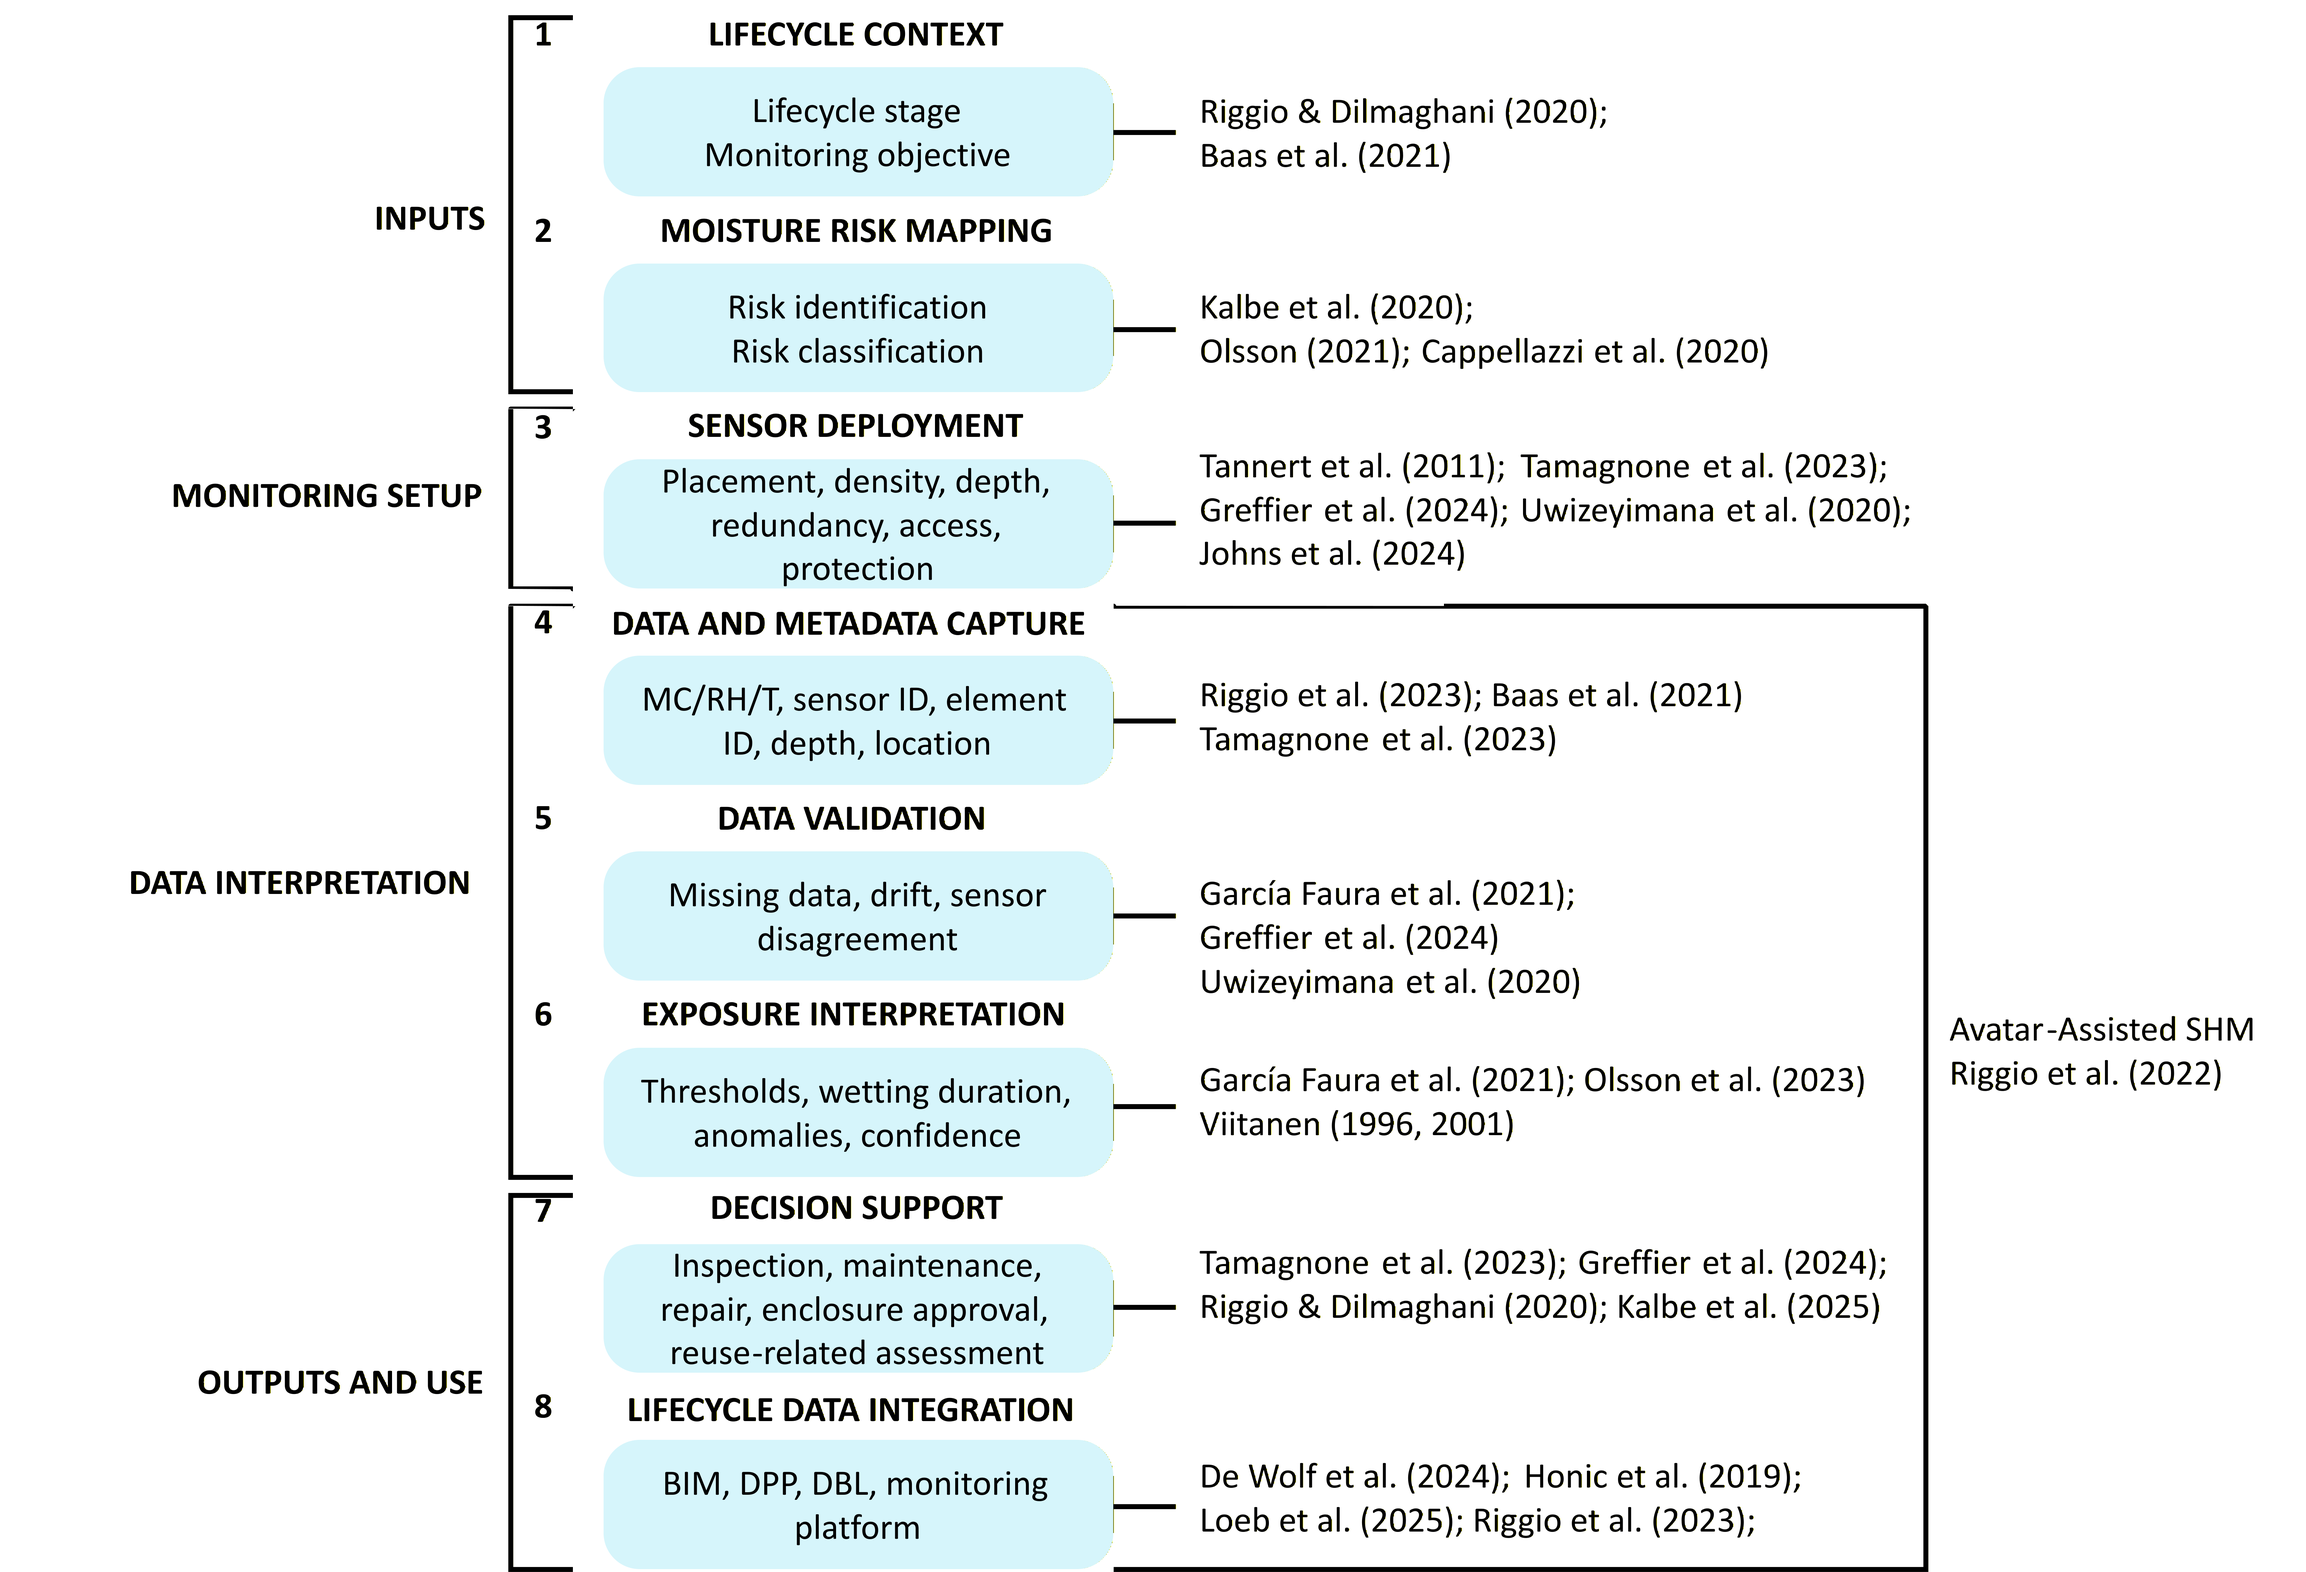
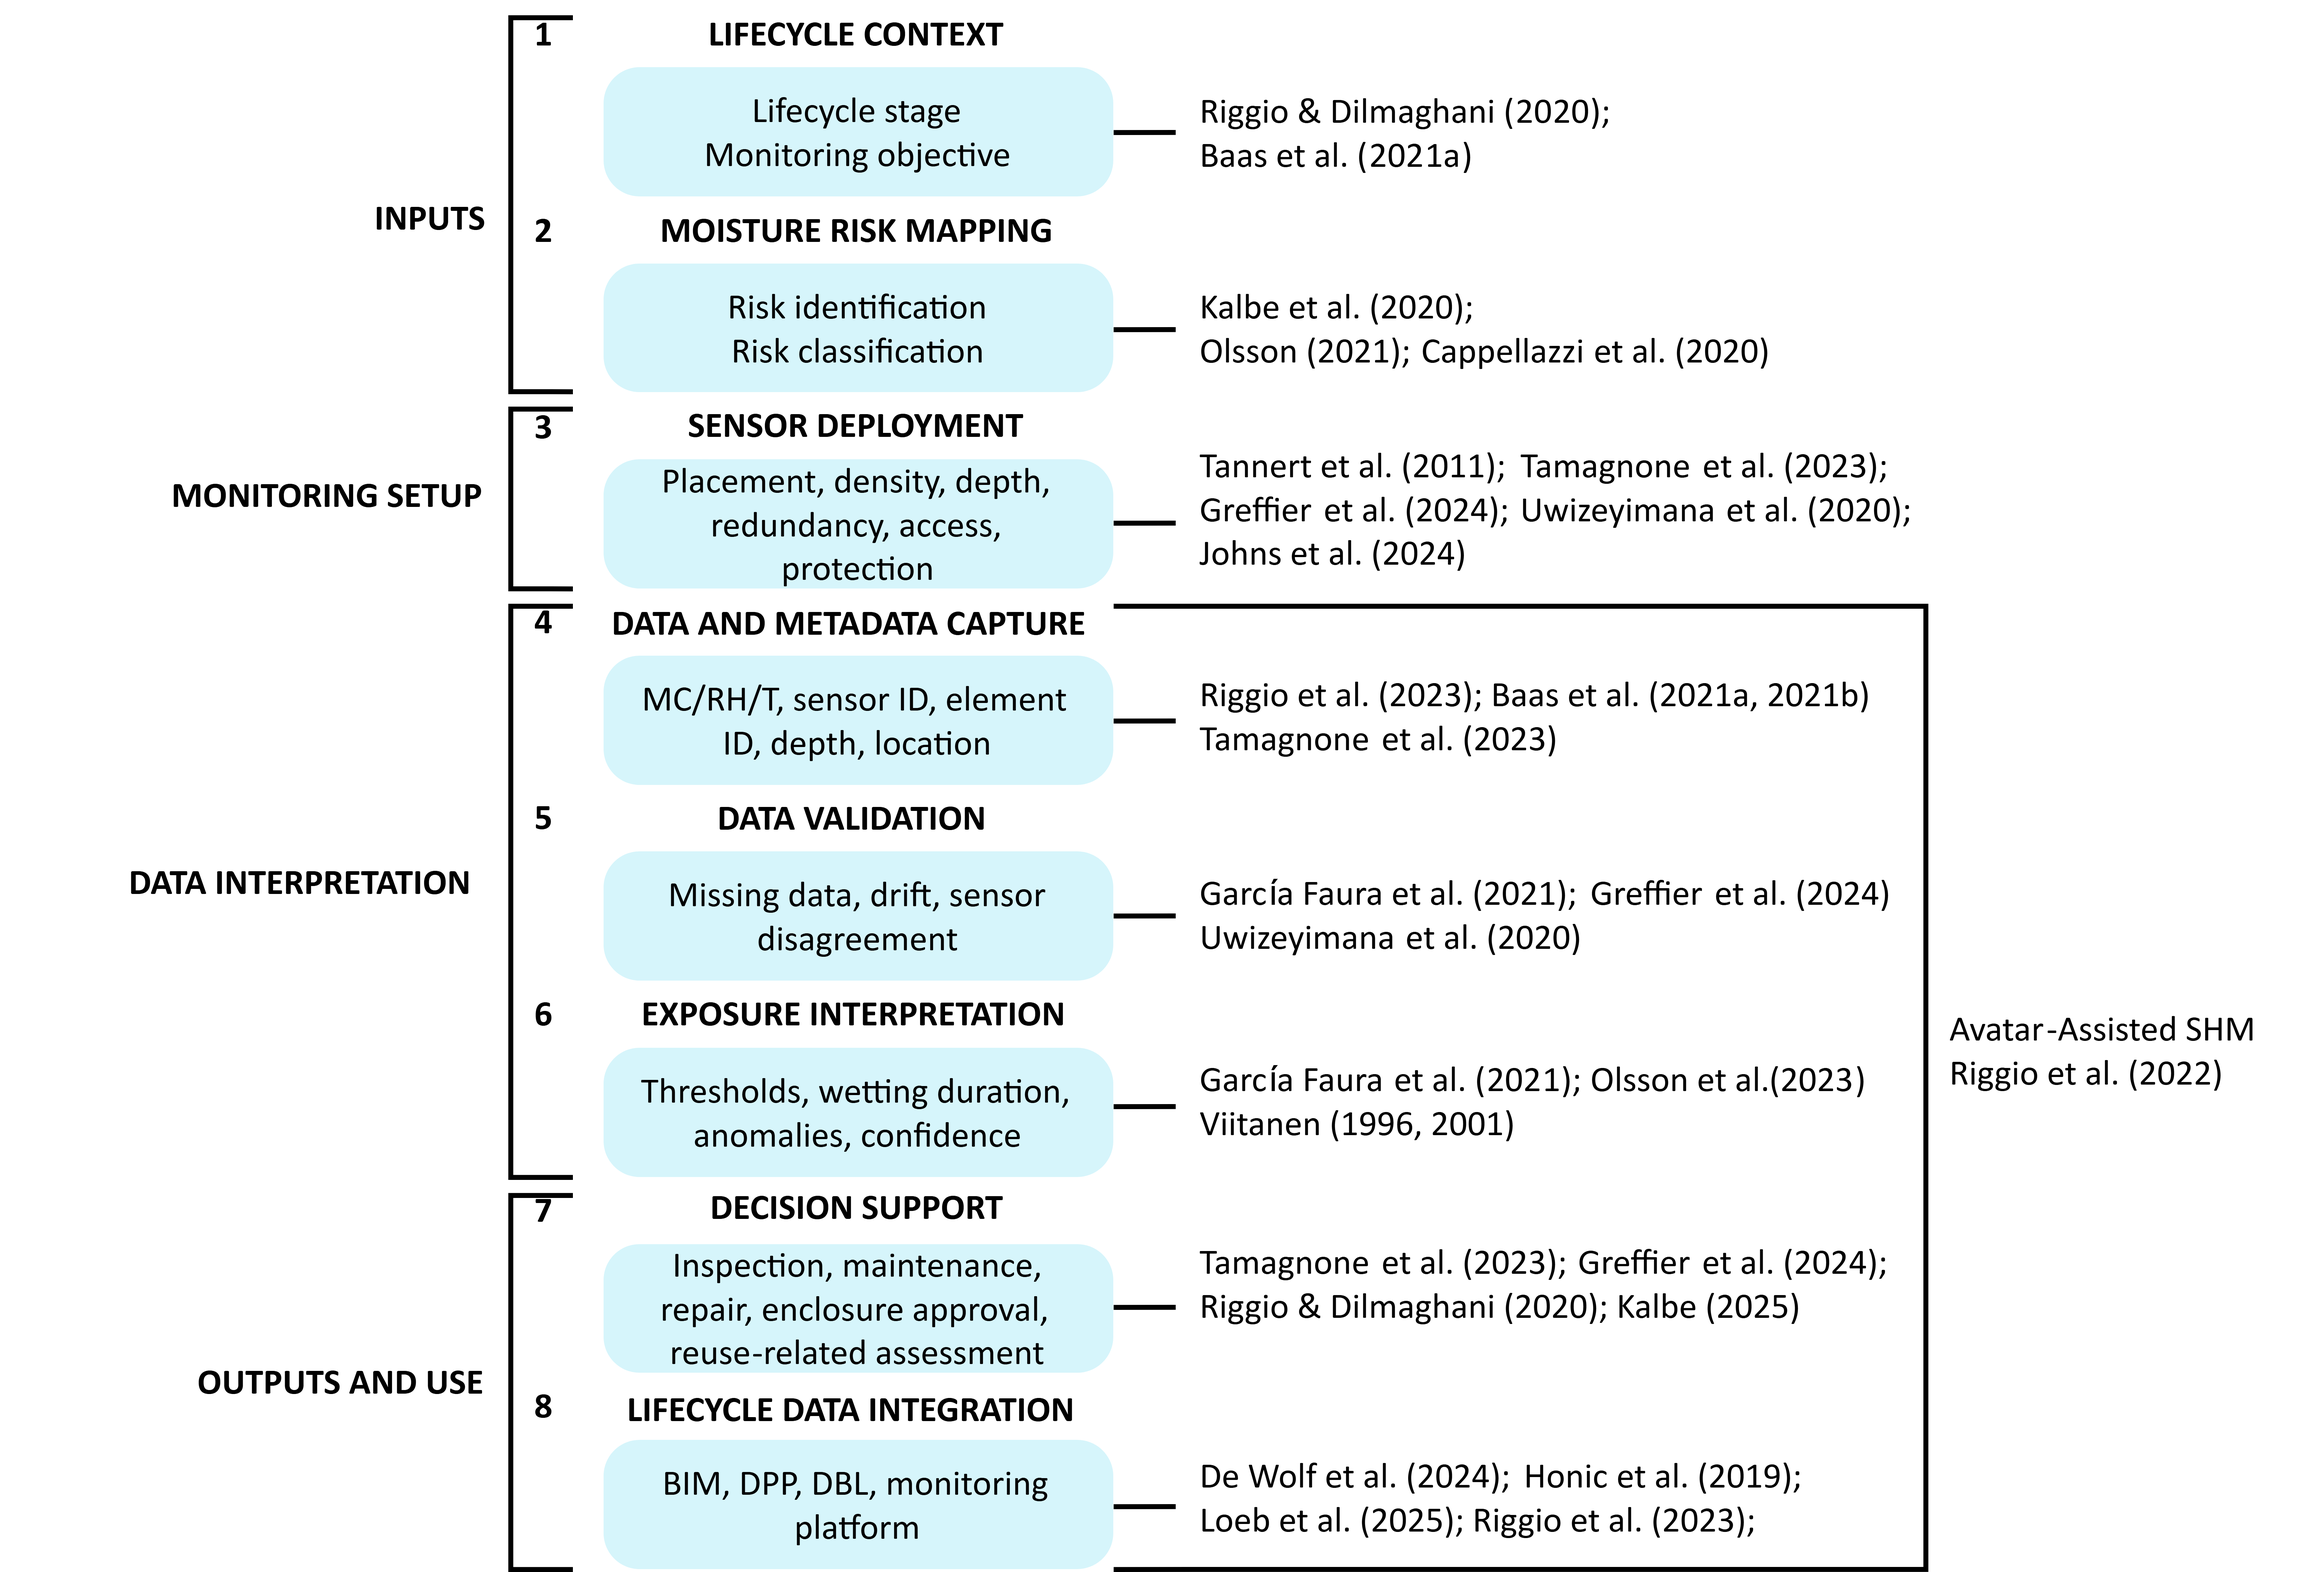
Correct framework evidence citations

diff --git a/05_framework_evidence_base/README.md b/05_framework_evidence_base/README.md
@@ -6,7 +6,7 @@ It preserves traceability between the literature synthesis and the framework lay
 
 ## Framework development
 
-The framework was developed through a targeted literature synthesis combining database searching, snowballing, and review of timber-moisture and monitoring studies. A total of 54 articles were assessed, of which 20 were retained because they provided extractable evidence concerning sensor location, deployment configuration, contextual data requirements, monitoring and data-quality issues, moisture-exposure interpretation, maintenance or reuse-related decision support, or lifecycle use of monitoring records.
+The framework was developed through a targeted literature synthesis combining database searching, snowballing, and review of timber-moisture and monitoring studies. A total of 54 articles were assessed, of which 20 studies were retained because they provided extractable evidence concerning sensor location, deployment configuration, contextual data requirements, monitoring and data-quality issues, moisture-exposure interpretation, maintenance or reuse-related decision support, or lifecycle use of monitoring records. The reference list additionally includes the companion Data in Brief article for the Baas et al. study because it documents the associated monitoring records and data platform; the methodological article and companion data article are distinguished as 2021a and 2021b.
 
 The retained studies were coded in NVivo using inductively developed codes covering lifecycle stage, monitoring purpose, building and member type, sensor location, risk drivers, sensor configuration and density, installation guidance, monitoring issues, risk prediction, contextual information, and recommended monitoring systems.
 
@@ -18,19 +18,21 @@ Framework development then proceeded through iterative synthesis of the coded ma
 
 *Conceptual framework for reuse-informed moisture sensing and data acquisition in mass-timber buildings, showing literature used to support development of the individual layers.*
 
+[Editable SVG source](assets/framework_with_supporting_literature.svg)
+
 The publications associated with each layer are supporting evidence, rather than direct sources of the complete layer. The eight-layer structure and the relationships between layers represent the authors' synthesis of evidence distributed across the reviewed literature.
 
 ## Framework-to-evidence map
 
 | Layer | Framework function | Supporting literature | Contribution to framework development |
 |---|---|---|---|
-| 1. Lifecycle context | Establishes lifecycle stage and monitoring objective before monitoring requirements are defined. | Riggio & Dilmaghani (2020); Baas et al. (2021) | Positions monitoring within lifecycle and structural-health-monitoring contexts and supports defining objectives before deployment. |
+| 1. Lifecycle context | Establishes lifecycle stage and monitoring objective before monitoring requirements are defined. | Riggio & Dilmaghani (2020); Baas et al. (2021a) | Positions monitoring within lifecycle and structural-health-monitoring contexts and supports defining objectives before deployment. |
 | 2. Moisture risk mapping | Identifies moisture-prone locations and classifies their relative monitoring priority. | Kalbe et al. (2020); Olsson (2021); Cappellazzi et al. (2020) | Provides evidence on moisture-sensitive details, construction exposure, water ingress, drying limitations, and deterioration mechanisms. |
 | 3. Sensor deployment | Translates identified risks into placement, density, depth, redundancy, access, and protection decisions. | Tannert et al. (2011); Tamagnone et al. (2023); Greffier et al. (2024); Uwizeyimana et al. (2020); Johns et al. (2024) | Informs sensor location, depth, coverage, redundancy, accessibility, protection, and practical monitoring constraints. |
-| 4. Data and metadata capture | Defines measured values and context needed to preserve the meaning of monitoring records. | Riggio et al. (2023); Baas et al. (2021); Tamagnone et al. (2023) | Links MC, RH, and temperature to sensor and element identities, depth, location, and later interpretation context. |
+| 4. Data and metadata capture | Defines measured values and context needed to preserve the meaning of monitoring records. | Riggio et al. (2023); Baas et al. (2021a, 2021b); Tamagnone et al. (2023) | Links MC, RH, and temperature to sensor and element identities, depth, location, and later interpretation context. |
 | 5. Data validation | Evaluates whether monitoring records are reliable enough for interpretation. | García Faura et al. (2021); Greffier et al. (2024); Uwizeyimana et al. (2020) | Addresses missing data, anomalies, sensor disagreement, installation effects, drift, and other quality issues. |
 | 6. Exposure interpretation | Converts validated observations into indicators of moisture exposure and drying behaviour. | García Faura et al. (2021); Olsson et al. (2023); Viitanen (1996, 2001) | Supports thresholds, exposure duration, wetting and drying behaviour, anomalies, biological risk, and uncertainty. |
-| 7. Decision support | Connects interpreted information to inspection, maintenance, repair, enclosure approval, and reuse assessment. | Tamagnone et al. (2023); Greffier et al. (2024); Riggio & Dilmaghani (2020); Kalbe et al. (2025) | Supports identifying adverse conditions, targeting intervention, and supplying evidence for lifecycle decisions. |
+| 7. Decision support | Connects interpreted information to inspection, maintenance, repair, enclosure approval, and reuse assessment. | Tamagnone et al. (2023); Greffier et al. (2024); Riggio & Dilmaghani (2020); Kalbe (2025) | Supports identifying adverse conditions, targeting intervention, and supplying evidence for lifecycle decisions. |
 | 8. Lifecycle data integration | Preserves monitoring information in digital systems across lifecycle stages. | De Wolf et al. (2024); Honic et al. (2019); Loeb et al. (2025); Riggio et al. (2023) | Supports structured information management through BIM, product passports, building logbooks, and monitoring platforms. |
 
 ## Cross-layer concept: Avatar-Assisted Structural Health Monitoring
@@ -41,7 +43,9 @@ Avatar-Assisted Structural Health Monitoring connects sensor observations with c
 
 ## References
 
-Baas, E. J., Riggio, M., & Barbosa, A. R. (2021). A methodological approach for structural health monitoring of mass-timber buildings under construction. *Construction and Building Materials, 268*, 121153. https://doi.org/10.1016/j.conbuildmat.2020.121153
+Baas, E. J., Riggio, M., & Barbosa, A. R. (2021a). A methodological approach for structural health monitoring of mass-timber buildings under construction. *Construction and Building Materials, 268*, 121153. https://doi.org/10.1016/j.conbuildmat.2020.121153
+
+Baas, E. J., Riggio, M., & Barbosa, A. R. (2021b). Structural health monitoring data collected during construction of a mass-timber building with a data platform for analysis. *Data in Brief, 35*, 106845. https://doi.org/10.1016/j.dib.2021.106845
 
 Cappellazzi, J., Konkler, M. J., Sinha, A., & Morrell, J. J. (2020). Potential for decay in mass timber elements: A review of the risks and identifying possible solutions. *Wood Material Science & Engineering, 15*(1), 1–10. https://doi.org/10.1080/17480272.2020.1720804
 
@@ -67,7 +71,7 @@ Olsson, L., Lång, L., Bok, G., & Mjörnell, K. (2023). Development of laborator
 
 Riggio, M., & Dilmaghani, M. (2020). Structural health monitoring of timber buildings: A literature survey. *Building Research & Information, 48*(8), 817–837. https://doi.org/10.1080/09613218.2019.1681253
 
-Riggio, M., Dilmaghani, M., & Sanchez, C. A. (2023). Understanding structural health monitoring data to support decision-making processes and service life management of mass timber buildings: A preliminary study on use of data scaffolding. *International Wood Products Journal, 14*(1), 22–34. https://doi.org/10.1080/20426445.2023.2177092
+Riggio, M., Dilmaghani, M., & Sanchez, C. A. (2023). Understanding structural health monitoring data to support decision-making processes and service life management of mass timber buildings: A preliminary study on use of data scaffolding. *International Wood Products Journal, 14*(1), 42–59. https://doi.org/10.1080/20426445.2023.2177092
 
 Riggio, M., Mrissa, M., Krész, M., Včelák, J., Sandak, J., & Sandak, A. (2022). Leveraging structural health monitoring data through avatars to extend the service life of mass timber buildings. *Frontiers in Built Environment, 8*, 887593. https://doi.org/10.3389/fbuil.2022.887593
 
